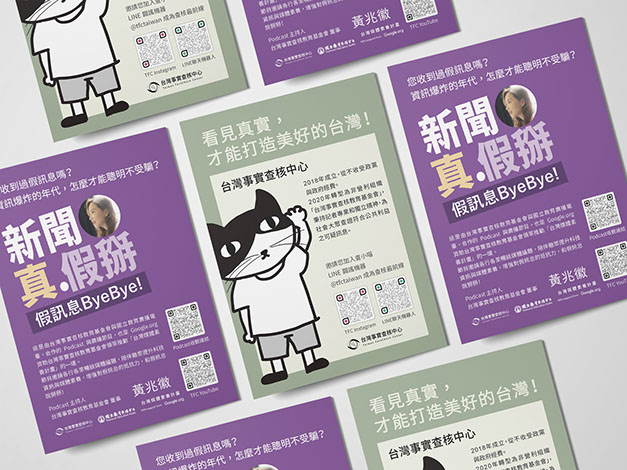
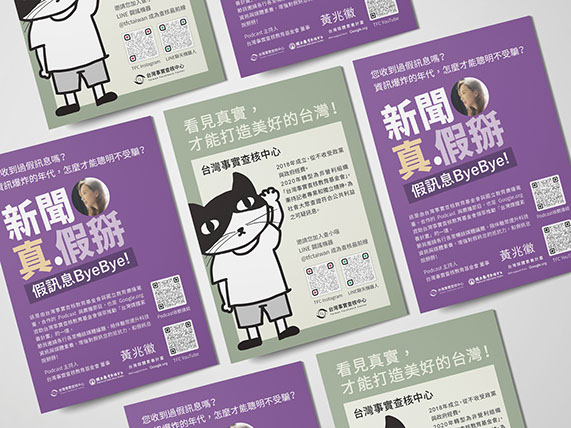
ddd

diff --git a/TaiwanFactCheckCenter/css/index.css b/TaiwanFactCheckCenter/css/index.css
@@ -1,1 +1,1 @@
-.version.index{color:#000002;background-color:#0267F6;}.js body{visibility:hidden;}.js body.initialized{visibility:visible;}#page{background-image:none;background-color:transparent;margin-left:auto;margin-right:auto;border-width:0px;width:414px;z-index:1;border-color:#000000;padding-bottom:62px;}#pu5039{width:0.01px;z-index:2;margin-right:-10000px;}#u5039{background-position:left top;opacity:1;background-repeat:no-repeat;background-color:#000000;filter:alpha(opacity=100);z-index:2;-ms-filter:"progid:DXImageTransform.Microsoft.Alpha(Opacity=100)";background-size:cover;}#u6647{background-color:transparent;position:relative;z-index:27;}#pu6674{margin-right:-10000px;width:0.01px;z-index:3;}#u6674{background-color:transparent;position:relative;border-width:0px;z-index:3;border-color:transparent;}#toppppp{width:22px;position:relative;margin-right:-10000px;}#u4331{background-color:transparent;position:relative;margin-right:-10000px;border-width:0px;width:170px;z-index:5;border-color:transparent;}#u4334-4{line-height:17px;font-family:Helvetica, Helvetica Neue, Arial, sans-serif;background-color:transparent;min-height:9px;font-size:11px;text-align:center;width:50px;color:#050505;z-index:6;position:relative;margin-right:-10000px;}#u4332-4{line-height:17px;left:66px;position:relative;background-color:transparent;font-family:Helvetica, Helvetica Neue, Arial, sans-serif;min-height:8px;font-size:11px;text-align:center;width:38px;color:#050505;z-index:14;margin-right:-10000px;}#u4333-4{line-height:17px;left:120px;position:relative;background-color:transparent;font-family:Helvetica, Helvetica Neue, Arial, sans-serif;min-height:8px;font-size:11px;text-align:center;width:50px;color:#050505;z-index:10;margin-right:-10000px;}#u4334,#u4332,#u4333{text-decoration:underline;}#u6663{background-color:transparent;position:relative;border-width:0px;z-index:29;border-color:transparent;}#u6664-8{line-height:14px;background-color:transparent;font-size:10px;color:#000000;z-index:30;position:relative;margin-right:-10000px;}#u3092{background-color:transparent;position:relative;width:116px;z-index:18;}#u3094{background-color:transparent;position:relative;margin-right:-10000px;border-width:0px;width:95px;z-index:20;border-color:transparent;}#u3095{width:25px;background-color:transparent;z-index:21;position:relative;margin-right:-10000px;}#u3097{left:35px;background-color:transparent;position:relative;margin-right:-10000px;width:25px;z-index:23;}#u3099{left:70px;background-color:transparent;position:relative;margin-right:-10000px;width:25px;z-index:25;}.html{background-color:#FFFFFF;}body{position:relative;min-width:414px;}@media (min-width: 415px), print{#muse_css_mq{background-color:#FFFFFF;}#bp_infinity.active{display:block;}#page{min-height:1742px;}#pu5039{padding-bottom:0px;margin-left:-405px;}#u5039{height:816px;background-image:url("../images/mockup2.jpg?crc=3849213805");}#u5039-bw{z-index:2;height:816px;}#u6647{width:1024px;margin-left:100px;margin-top:108px;}.css_verticalspacer .verticalspacer{height:calc(100vh - 1662px);}#pu6674{padding-bottom:0px;margin-top:-1742px;margin-left:-405px;}#u6674{width:1174px;}#u4331{margin-top:49px;left:1004px;}#pu6663{z-index:29;width:0.01px;margin-left:100px;margin-top:1633px;}#u6663{width:189px;margin-right:-10000px;}#u6664-8{width:189px;min-height:26px;}#u3092{margin-right:-10000px;margin-top:33px;left:763px;}#u3094{margin-top:17px;left:929px;}.verticalspacer{min-height:142px;}}@media (max-width: 414px){#muse_css_mq{background-color:#00019e;}#bp_414.active{display:block;}#page{min-height:1011px;}#pu5039{margin-top:97px;}#u5039{width:414px;height:470px;background-image:url("../images/mockup2-u5039-fr.jpg?crc=3942770476");position:relative;}.hidpi #u5039{background-image:url("../images/mockup2-u5039-fr_2x.jpg?crc=65252221");}#u6647{width:414px;margin-top:30px;}.css_verticalspacer .verticalspacer{height:calc(100vh - 932px);}#pu6674{margin-top:-1011px;}#u6674{width:228px;}#u4331{margin-top:50px;left:58px;}#u6663{width:179px;margin-left:58px;margin-top:834px;}#u6664-8{width:179px;min-height:9px;}#u3092{margin-left:58px;margin-top:59px;}#u3094{margin-top:-25px;left:261px;}body{overflow-x:hidden;}.verticalspacer{min-height:140px;}}
+.version.index{color:#0000E3;background-color:#4A02F0;}.js body{visibility:hidden;}.js body.initialized{visibility:visible;}#page{background-image:none;background-color:transparent;margin-left:auto;margin-right:auto;border-width:0px;width:414px;z-index:1;border-color:#000000;padding-bottom:62px;}#pu5039{width:0.01px;z-index:2;margin-right:-10000px;}#u5039{background-position:left top;opacity:1;background-repeat:no-repeat;background-color:#000000;filter:alpha(opacity=100);z-index:2;-ms-filter:"progid:DXImageTransform.Microsoft.Alpha(Opacity=100)";background-size:cover;}#u6647{background-color:transparent;position:relative;z-index:27;}#pu6674{margin-right:-10000px;width:0.01px;z-index:3;}#u6674{background-color:transparent;position:relative;border-width:0px;z-index:3;border-color:transparent;}#toppppp{width:22px;position:relative;margin-right:-10000px;}#u4331{background-color:transparent;position:relative;margin-right:-10000px;border-width:0px;width:170px;z-index:5;border-color:transparent;}#u4334-4{line-height:17px;font-family:Helvetica, Helvetica Neue, Arial, sans-serif;background-color:transparent;min-height:9px;font-size:11px;text-align:center;width:50px;color:#050505;z-index:6;position:relative;margin-right:-10000px;}#u4332-4{line-height:17px;left:66px;position:relative;background-color:transparent;font-family:Helvetica, Helvetica Neue, Arial, sans-serif;min-height:8px;font-size:11px;text-align:center;width:38px;color:#050505;z-index:14;margin-right:-10000px;}#u4333-4{line-height:17px;left:120px;position:relative;background-color:transparent;font-family:Helvetica, Helvetica Neue, Arial, sans-serif;min-height:8px;font-size:11px;text-align:center;width:50px;color:#050505;z-index:10;margin-right:-10000px;}#u4334,#u4332,#u4333{text-decoration:underline;}#u6663{background-color:transparent;position:relative;border-width:0px;z-index:29;border-color:transparent;}#u6664-8{line-height:14px;background-color:transparent;font-size:10px;color:#000000;z-index:30;position:relative;margin-right:-10000px;}#u3092{background-color:transparent;position:relative;width:116px;z-index:18;}#u3094{background-color:transparent;position:relative;margin-right:-10000px;border-width:0px;width:95px;z-index:20;border-color:transparent;}#u3095{width:25px;background-color:transparent;z-index:21;position:relative;margin-right:-10000px;}#u3097{left:35px;background-color:transparent;position:relative;margin-right:-10000px;width:25px;z-index:23;}#u3099{left:70px;background-color:transparent;position:relative;margin-right:-10000px;width:25px;z-index:25;}.html{background-color:#FFFFFF;}body{position:relative;min-width:414px;}@media (min-width: 415px), print{#muse_css_mq{background-color:#FFFFFF;}#bp_infinity.active{display:block;}#page{min-height:1742px;}#pu5039{padding-bottom:0px;margin-left:-405px;}#u5039{height:816px;background-image:url("../images/mockup2.jpg?crc=3849213805");}#u5039-bw{z-index:2;height:816px;}#u6647{width:1024px;margin-left:100px;margin-top:108px;}.css_verticalspacer .verticalspacer{height:calc(100vh - 1662px);}#pu6674{padding-bottom:0px;margin-top:-1742px;margin-left:-405px;}#u6674{width:1174px;}#u4331{margin-top:49px;left:1004px;}#pu6663{z-index:29;width:0.01px;margin-left:100px;margin-top:1633px;}#u6663{width:189px;margin-right:-10000px;}#u6664-8{width:189px;min-height:26px;}#u3092{margin-right:-10000px;margin-top:33px;left:763px;}#u3094{margin-top:17px;left:929px;}.verticalspacer{min-height:142px;}}@media (max-width: 414px){#muse_css_mq{background-color:#00019e;}#bp_414.active{display:block;}#page{min-height:968px;}#pu5039{margin-top:97px;}#u5039{width:414px;height:428px;background-image:url("../images/mockup2-u5039-fr.jpg?crc=77392519");position:relative;}.hidpi #u5039{background-image:url("../images/mockup2-u5039-fr_2x.jpg?crc=210072705");}#u6647{width:414px;margin-top:30px;}.css_verticalspacer .verticalspacer{height:calc(100vh - 890px);}#pu6674{margin-top:-968px;}#u6674{width:228px;}#u4331{margin-top:50px;left:58px;}#u6663{width:179px;margin-left:58px;margin-top:791px;}#u6664-8{width:179px;min-height:9px;}#u3092{margin-left:58px;margin-top:59px;}#u3094{margin-top:-25px;left:261px;}body{overflow-x:hidden;}.verticalspacer{min-height:140px;}}

diff --git a/TaiwanFactCheckCenter/index.html b/TaiwanFactCheckCenter/index.html
@@ -17,7 +17,7 @@ if(typeof Muse == "undefined") window.Muse = {}; window.Muse.assets = {"required
   <title>&nbsp;TaiwanFactCheckCenter</title>
   <!-- CSS -->
   <link rel="stylesheet" type="text/css" href="css/site_global.css?crc=4150625756"/>
-  <link rel="stylesheet" type="text/css" href="css/index.css?crc=33712118" id="pagesheet"/>
+  <link rel="stylesheet" type="text/css" href="css/index.css?crc=3813278448" id="pagesheet"/>
   <!-- IE-only CSS -->
   <!--[if lt IE 9]>
   <link rel="stylesheet" type="text/css" href="css/nomq_index.css?crc=4108129990" id="nomq_pagesheet"/>
@@ -73,7 +73,7 @@ if(typeof Muse == "undefined") window.Muse = {}; window.Muse.assets = {"required
       <img class="block temp_no_id temp_no_img_src" data-orig-src="images/mockup414x274.jpg?crc=432309909" data-hidpi-src="images/mockup414x274_2x.jpg?crc=288659178" alt="" width="414" height="274" data-orig-id="u6647_img" src="images/blank.gif?crc=4208392903"/>
      </div>
     </div>
-    <div class="verticalspacer" data-offset-top="871" data-content-above-spacer="870" data-content-below-spacer="62"></div>
+    <div class="verticalspacer" data-offset-top="871" data-content-above-spacer="828" data-content-below-spacer="62"></div>
     <div class="clearfix grpelem temp_no_id" data-orig-id="pu6674"><!-- column -->
      <span class="clearfix colelem placeholder" data-placeholder-for="u6674_content"><!-- placeholder node --></span>
      <span class="clearfix colelem placeholder" data-placeholder-for="u6663_content"><!-- placeholder node --></span>
